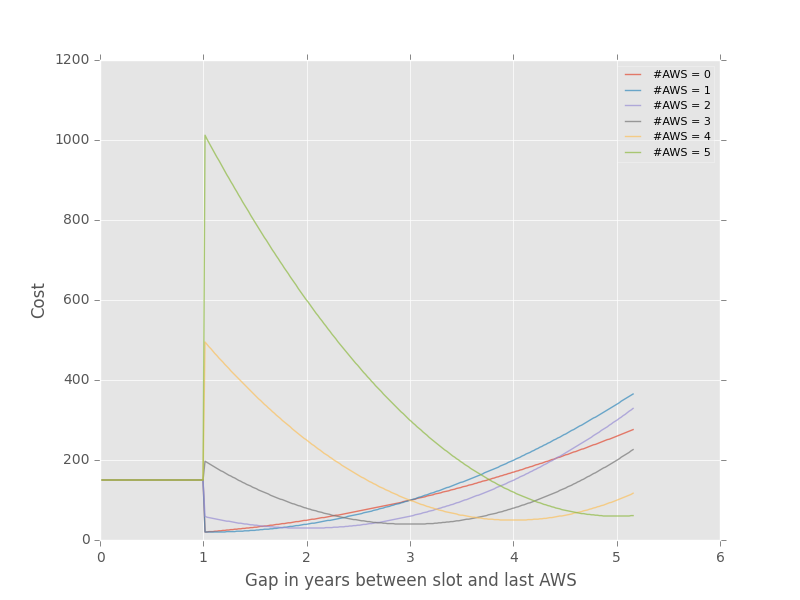
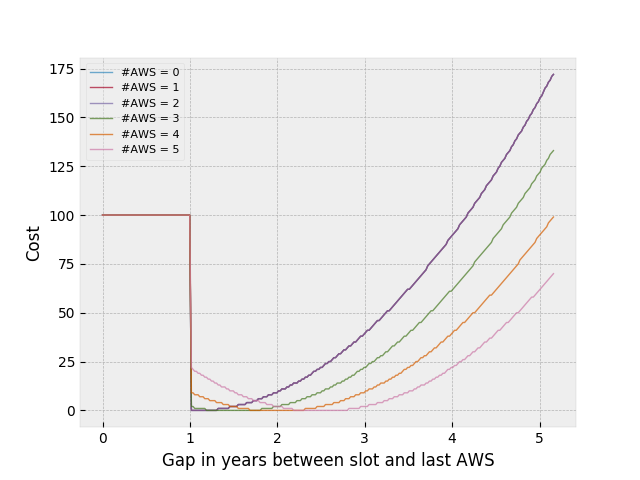
This cost function is better.

diff --git a/compute_cost.py b/compute_cost.py
@@ -1,7 +1,7 @@
-"""compute_cost.py: 
+"""compute_cost.py:
 
 """
-    
+
 __author__           = "Dilawar Singh"
 __copyright__        = "Copyright 2016, Dilawar Singh"
 __credits__          = ["NCBS Bangalore"]
@@ -19,24 +19,26 @@ import math
 
 __fmt__ = '%Y-%m-%d'
 
-def parabola( x0, offset, x ):
-    ys = offset + offset * (x-x0) ** 2.0
-    return ys
+def calc_cost( gap, naws ):
+    x0 = max( 1.0, naws * 0.5 )
+    c = (gap - x0)  ** 2.0
+    return c
+
 
 def computeCost( slot_date, lastDate, nAWS ):
-    ndays = ( slot_date - lastDate ).days 
+    ndays = ( slot_date - lastDate ).days
     nyears = ndays / 365.0
     cost = 0
     if ndays < 365.0:
-        cost = 15
+        cost = 10
     else:
-        cost = parabola( nAWS, nAWS + 1, nyears ) 
+        cost = calc_cost( nyears, nAWS )
 
     return int(10 * cost)
 
 def random_date(start, end):
     """
-    This function will return a random datetime between two datetime 
+    This function will return a random datetime between two datetime
     objects.
     """
     delta = end - start
@@ -45,8 +47,14 @@ def random_date(start, end):
     return start + datetime.timedelta(seconds=random_second)
 
 def test( ):
-    import pylab
-    pylab.style.use( 'ggplot' )
+    import matplotlib as mpl
+    mpl.use( "Agg" )
+    import matplotlib.pyplot as plt
+    mpl.style.use( 'bmh' )
+    mpl.rcParams['axes.linewidth'] = 0.2
+    mpl.rcParams['lines.linewidth'] = 1.0
+    mpl.rcParams['text.usetex'] = False
+
     # Generate random test data.
     start = datetime.datetime.strptime( '2017-03-18', __fmt__ )
     end = datetime.datetime.strptime( '2021-03-18', __fmt__  )
@@ -56,12 +64,12 @@ def test( ):
             date = start + datetime.timedelta( days = i * 7 )
             xval.append( (date - start).days / 365.0 )
             yval.append( computeCost( date, start, naws ) )
-        pylab.xlabel( 'Gap in years between slot and last AWS' )
-        pylab.ylabel( 'Cost' )
-        pylab.plot( xval, yval, alpha = 0.7, label = '#AWS = %d' % naws )
-        pylab.legend( framealpha = 0.4, fontsize = 8 )
+        plt.xlabel( 'Gap in years between slot and last AWS' )
+        plt.ylabel( 'Cost' )
+        plt.plot( xval, yval, alpha = 0.7, label = '#AWS = %d' % naws )
+        plt.legend( framealpha = 0.4, fontsize = 8 )
 
-    pylab.savefig( "%s.png" % sys.argv[0] )
+    plt.savefig( "%s.png" % sys.argv[0] )
 
 
 if __name__ == '__main__':

diff --git a/methods.php b/methods.php
@@ -181,16 +181,8 @@ function appURL( )
 /* Go to a page relative to base dir. */
 function goToPage($page="index.php", $delay = 3)
 {
-    $baseurl = appURL( );
-
-    $url = '';
-    if( __substr__( 'http', $page ) )
-        $url = $page;
-    else
-        $url = $baseurl . "/" . $page;
-
     try {
-        header("Refresh: $delay, url=$url");
+        header("Refresh: $delay, url=$page");
 
     } catch (Exception $e) {
         echo printWarning( "Failed to redirect" );
